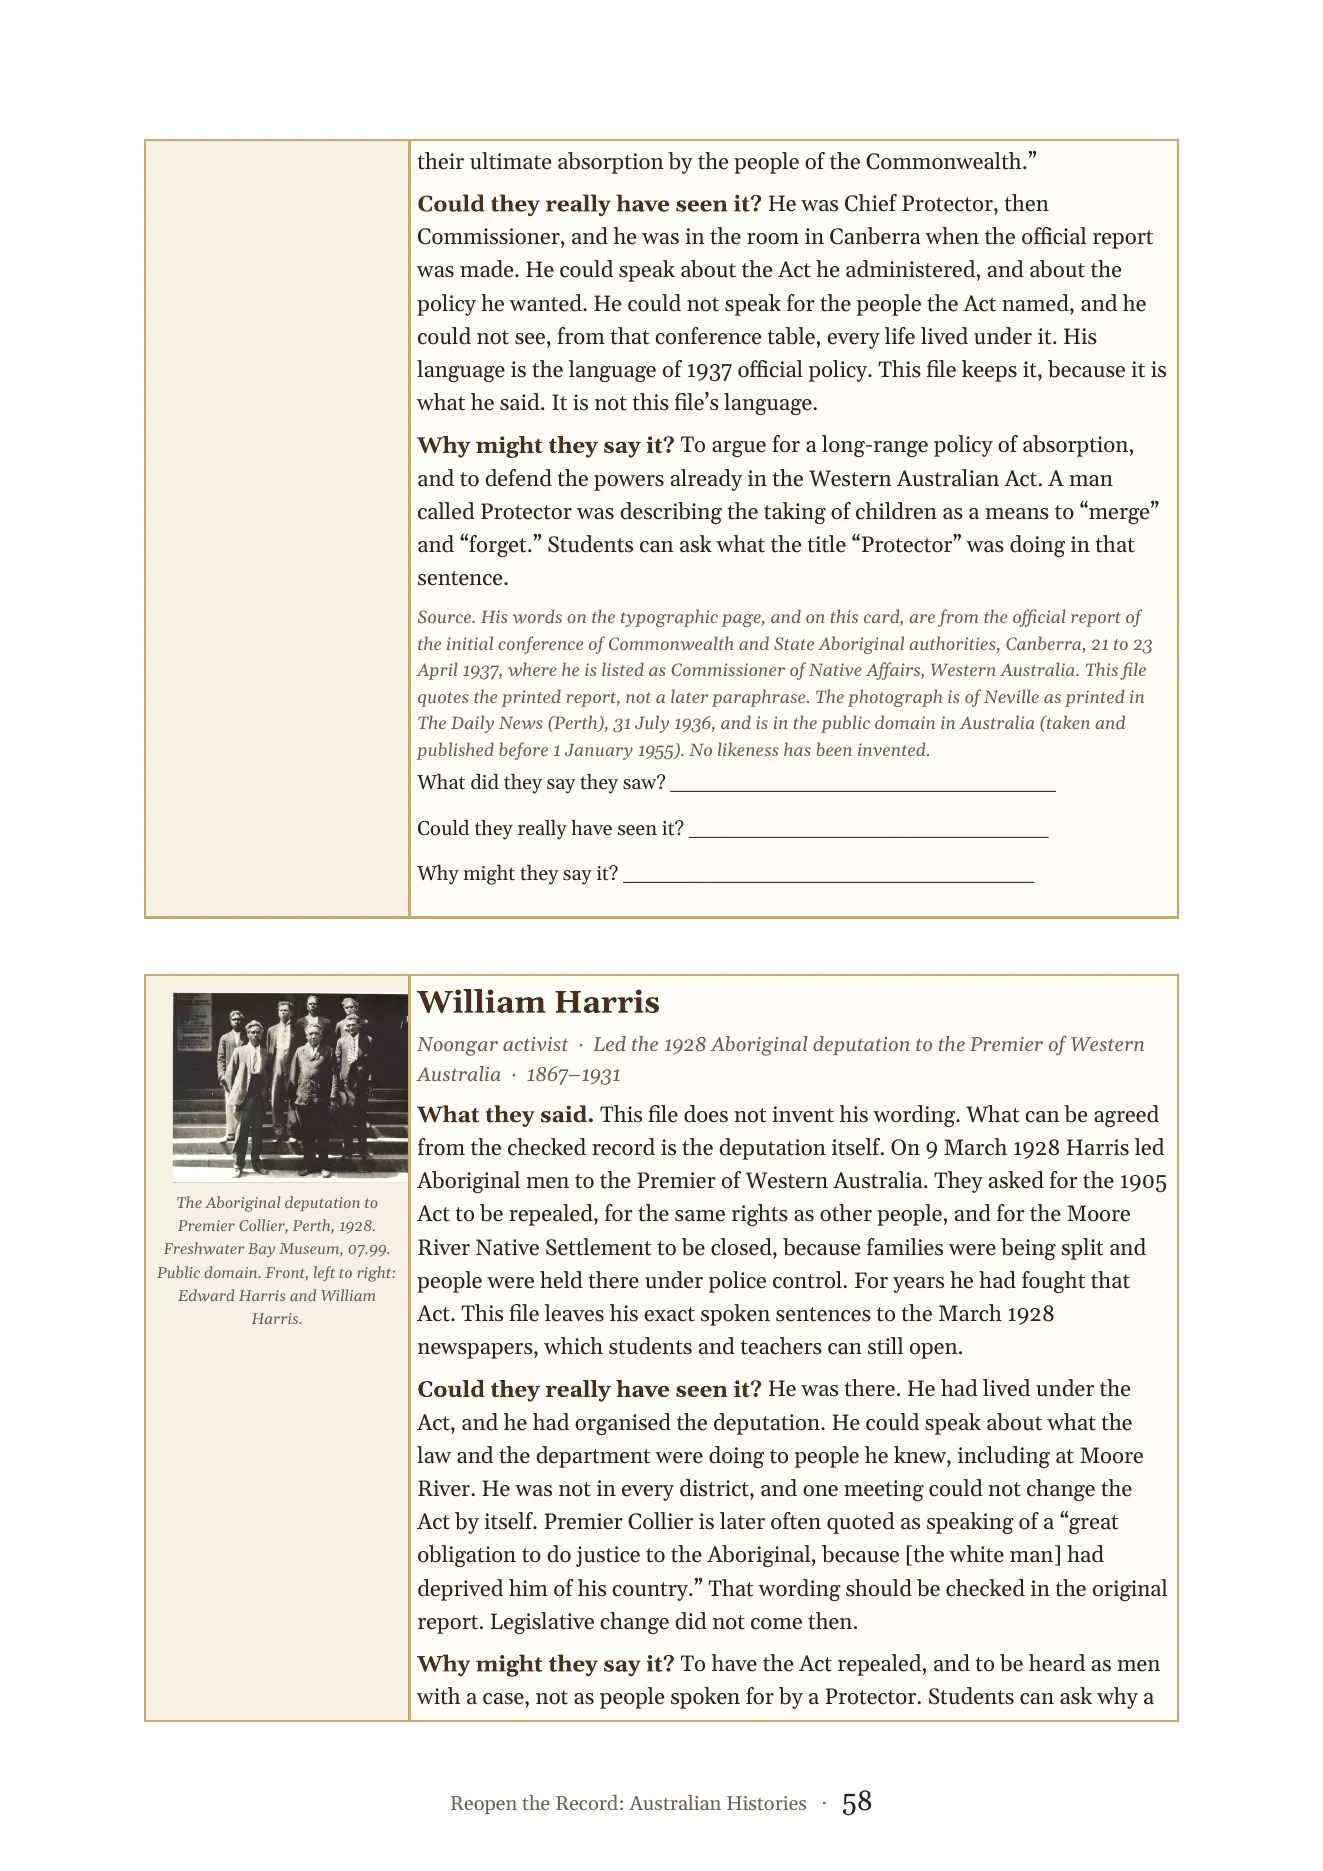
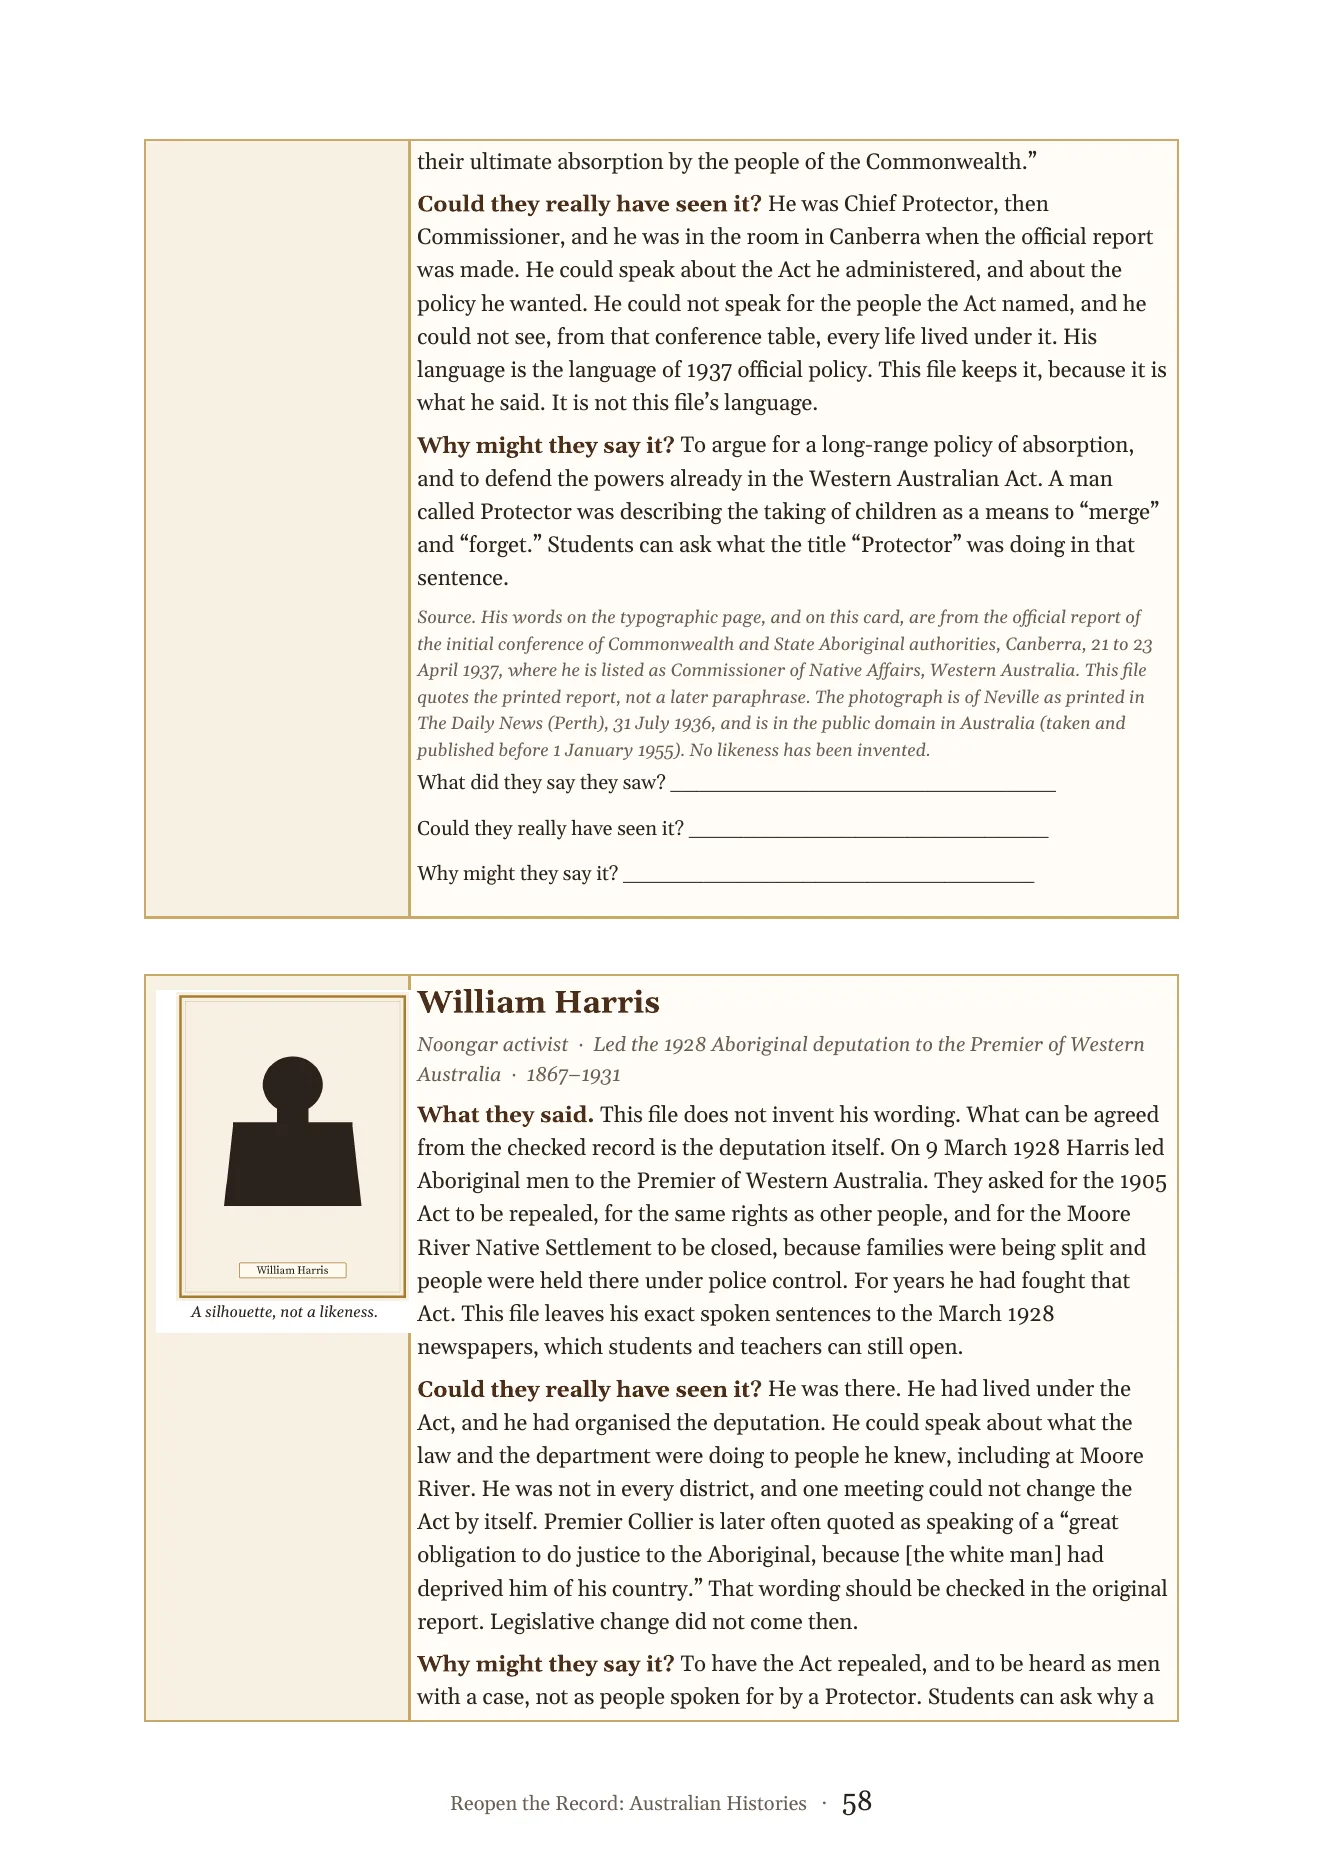
Replace the 1928 Harris photograph in the Protection pages with a silhouette.

Changed region(s): [[0.093, 0.527, 0.3099, 0.713]]

diff --git a/index.html b/index.html
@@ -14,8 +14,8 @@
   <meta property="og:url" content="https://robmac10.github.io/reopen-the-record/">
   <meta property="og:image" content="https://robmac10.github.io/reopen-the-record/assets/thumbs/p001.webp">
   <link rel="icon" href="assets/favicon.svg" type="image/svg+xml">
-  <link rel="stylesheet" href="assets/style.css?v=20261126j">
-  <link rel="stylesheet" href="assets/image-fit.css?v=20261126j">
+  <link rel="stylesheet" href="assets/style.css?v=20261126k">
+  <link rel="stylesheet" href="assets/image-fit.css?v=20261126k">
 </head>
 <body>
   <a class="skip" href="#main">Skip to the main content</a>
@@ -143,7 +143,7 @@
     <p style="padding:1em;text-align:center">This book needs JavaScript to turn the pages. The intended address is https://robmac10.github.io/reopen-the-record/</p>
   </noscript>
 
-  <script src="assets/data.js?v=20261126j"></script>
-  <script src="assets/app.js?v=20261126j"></script>
+  <script src="assets/data.js?v=20261126k"></script>
+  <script src="assets/app.js?v=20261126k"></script>
 </body>
 </html>
